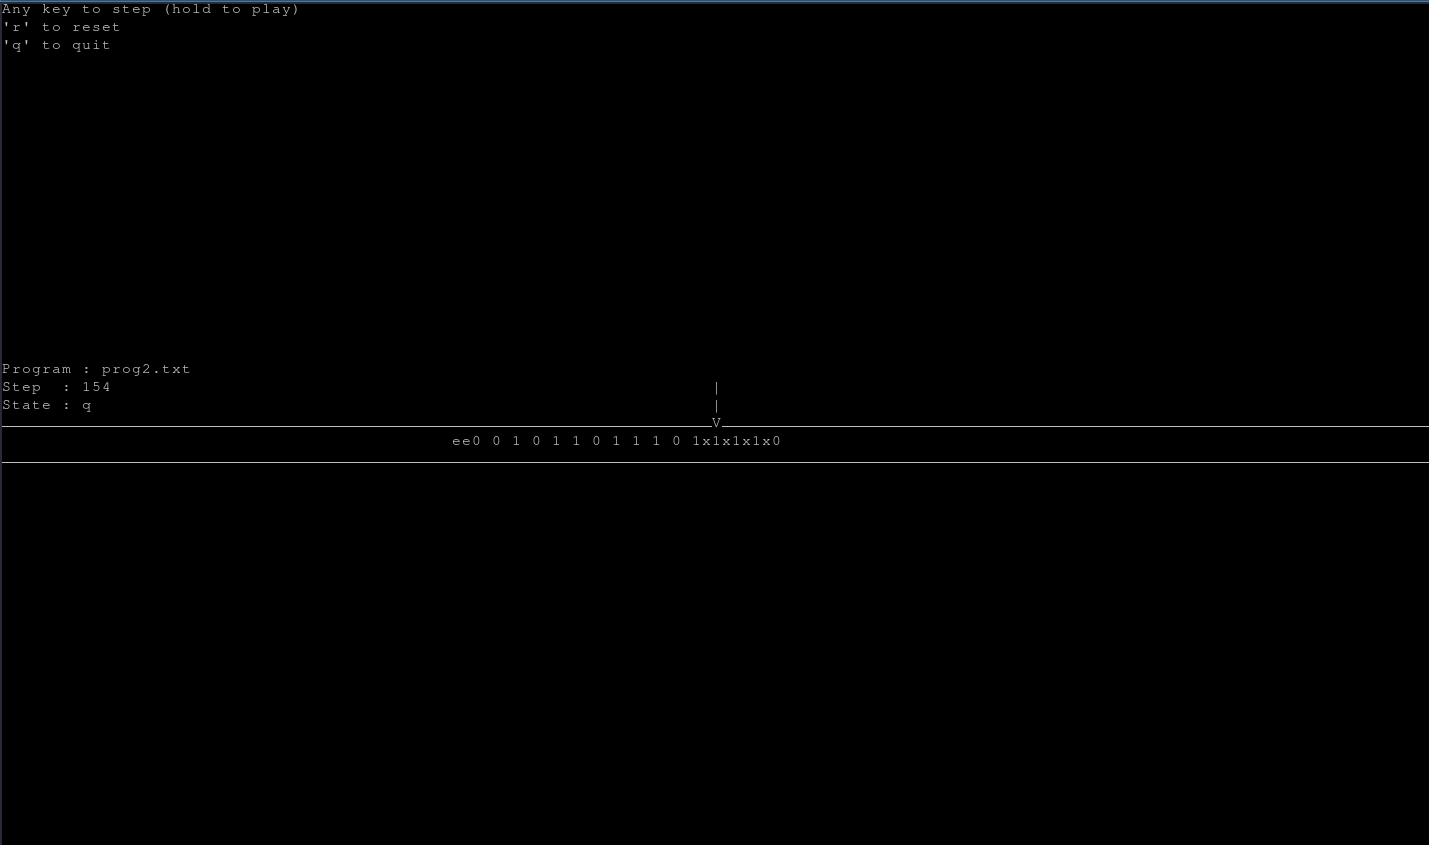
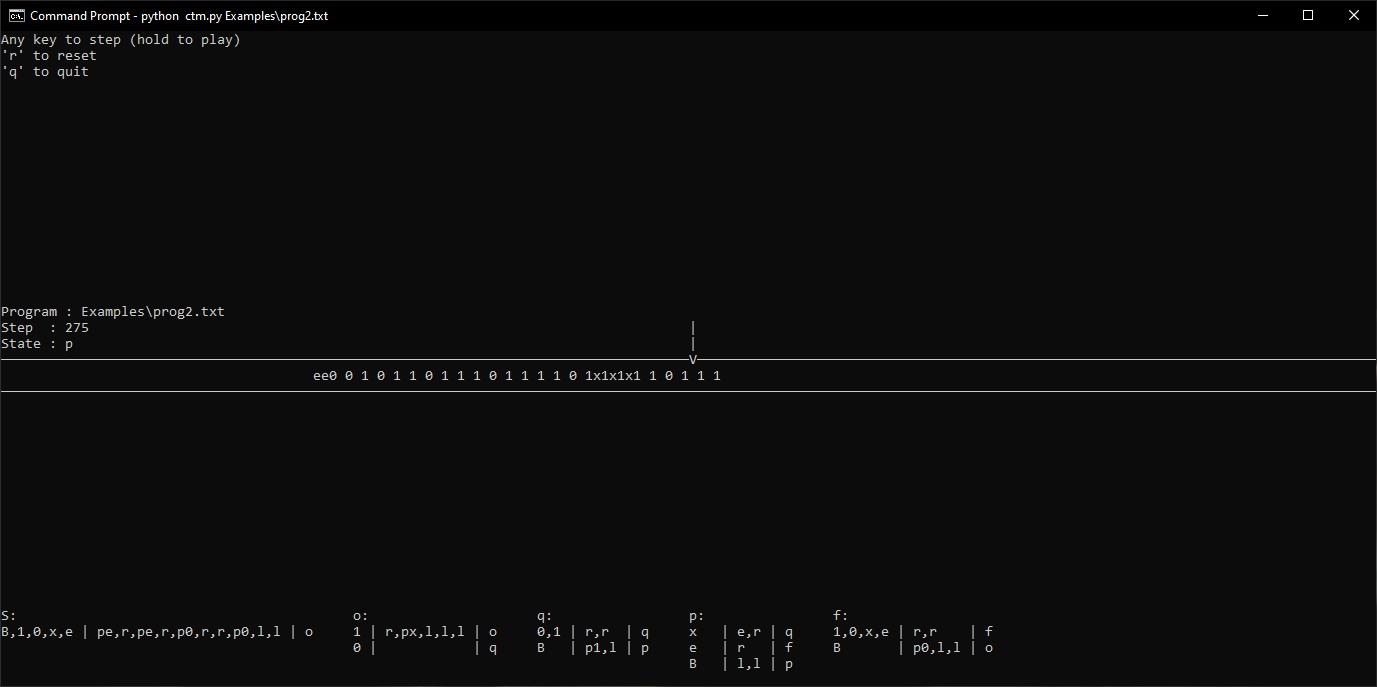
:sparkles: tm's states description displayed

diff --git a/TM.py b/TM.py
@@ -14,6 +14,8 @@ class TM :
 
         self.steps = 0
 
+        self.description = []
+
         self.path = path
         if path != None :
             self.open(path)
@@ -39,12 +41,15 @@ class TM :
                 # Enter new state definition
                 elif line[-1] == ':' :
                     self.states.append(line[:-1])
+                    self.description.append([line])
 
                 else :
+                    self.description[-1].append(line)
                     # Clean extra spaces
                     line = line.split('|')
                     for i in range(len(line)) :
                         line[i] = line[i].lstrip(' ').rstrip(' ')
+
 
                     # Read line info
                     symbol = line[0].split(',')

diff --git a/CursesApp.py b/CursesApp.py
@@ -23,7 +23,7 @@ class CursesApp() :
         # Exit
         werase(self.screen)
         refresh()
-        
+
 
 
     def mainLoop(self) :
@@ -70,5 +70,14 @@ class CursesApp() :
         for i,cell in enumerate(range(left_most_cell, right_most_cell)) :
             if str(cell) in self.tm.tape.keys() :
                 mvwaddch(self.screen, self.tapeH, i, self.tm.tape[str(cell)])
+
+        # machine states description
+        height = max([len(x) for x in self.tm.description]) + 1
+        x = 0
+        for state in self.tm.description :
+            for i,line in enumerate(state) :
+                mvwaddstr(self.screen, self.screenH-height+i, x, line)
+            x += max([len(line) for line in state]) + 5
+
 
         wrefresh(self.screen)
